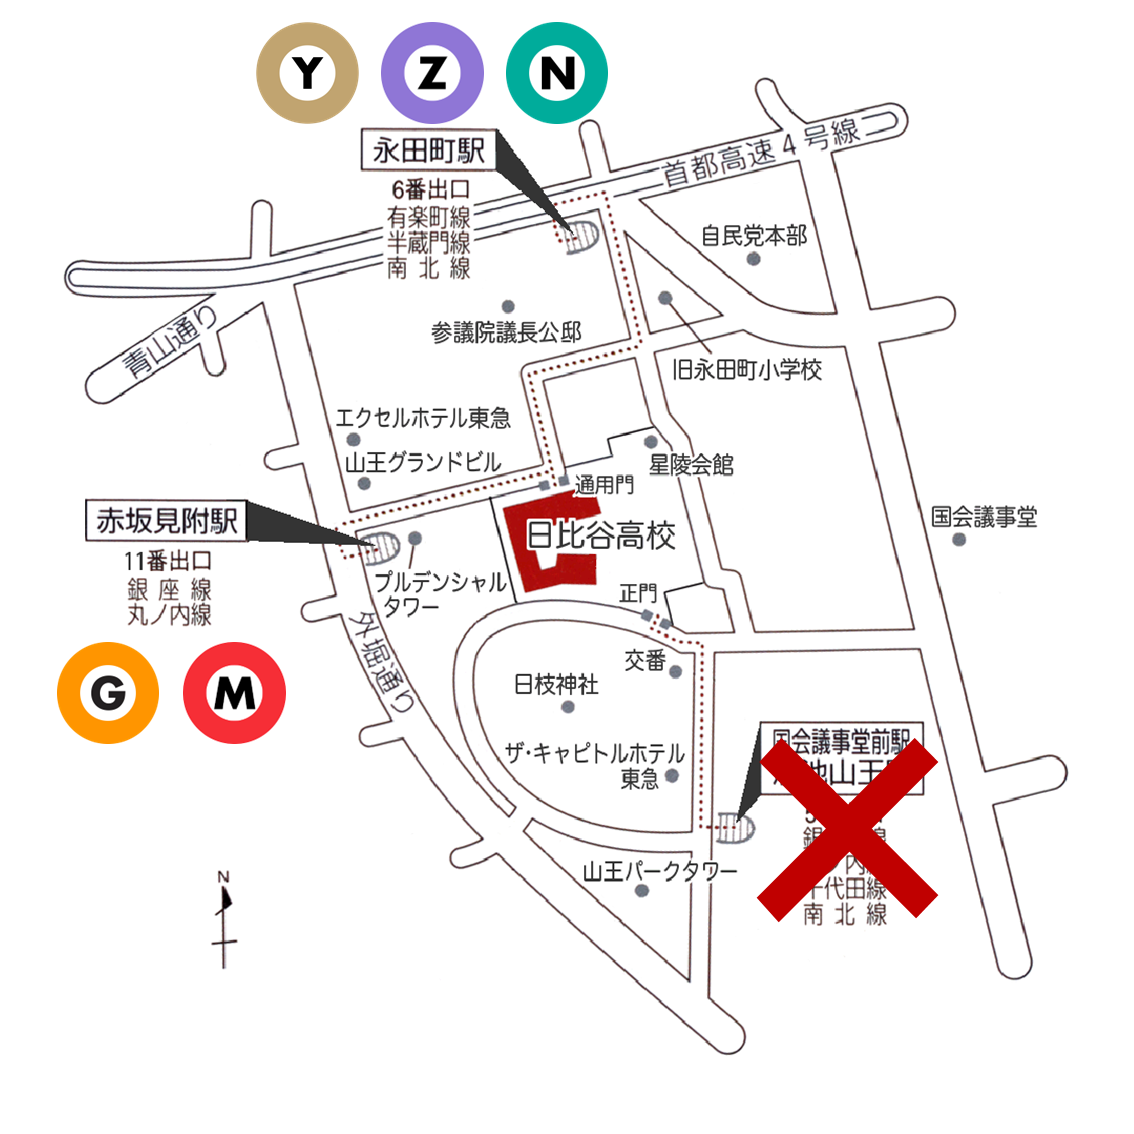
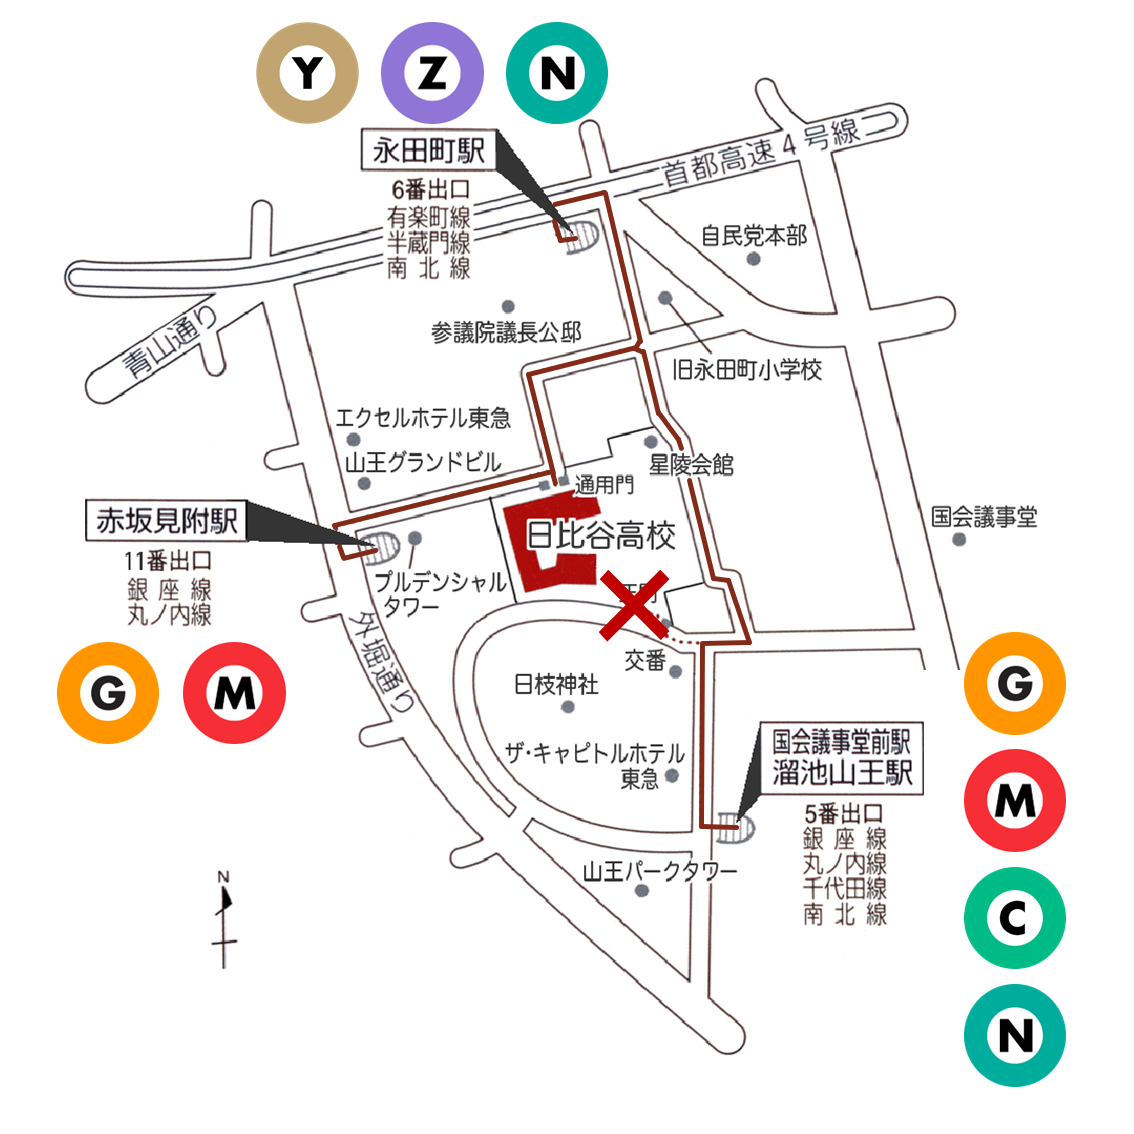
画像の調整など

diff --git a/pages/access.vue b/pages/access.vue
@@ -24,10 +24,12 @@
           </p>
           <br />
           <p>
-            ※ 溜池山王駅・国会議事堂駅側にある<span class="attention"
-              >正門からの入場はできません</span
-            >。通用門（永田町駅・赤坂見附駅側）へお回りください。
+            ※
+            <span class="attention"
+              >溜池山王駅・国会議事堂駅側にある正門からの入場はできません</span
+            >。
           </p>
+          <p>通用門（永田町駅・赤坂見附駅側）へお回りください。</p>
         </v-col>
       </v-row>
     </v-container>
@@ -67,6 +69,7 @@ h2 {
 .attention {
   color: #b49656;
   font-weight: bold;
+  text-decoration: underline;
 }
 
 .sta-nagata {
